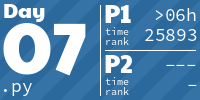
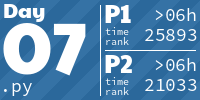
2023 - Day 7, part 2

Changed region(s): [[0.72, 0.78, 0.99, 0.93], [0.78, 0.57, 0.99, 0.72]]

diff --git a/ibidem/advent_of_code/y2023/dec07.py b/ibidem/advent_of_code/y2023/dec07.py
@@ -18,11 +18,11 @@ class HandType(IntEnum):
 
 @total_ordering
 class Hand:
-    def __init__(self, line):
+    def __init__(self, line, joker_mode):
         cards, bid = line.split()
         self.bid = int(bid.strip())
-        self.cards = [self._card_value(c) for c in cards.strip()]
-        self.type = self._hand_type(self.cards)
+        self.cards = [self._card_value(c, joker_mode) for c in cards.strip()]
+        self.type = self._hand_type(self.cards, joker_mode)
 
     def __eq__(self, other):
         return self.type == other.type and self.cards == other.cards
@@ -33,7 +33,9 @@ class Hand:
         return self.type < other.type
 
     @staticmethod
-    def _card_value(c):
+    def _card_value(c, joker_mode):
+        if joker_mode and c == "J":
+            return 1
         value_map = {
             "T": 10,
             "J": 11,
@@ -47,46 +49,76 @@ class Hand:
             return int(c)
 
     @staticmethod
-    def _hand_type(cards):
+    def _hand_type(cards, joker_mode):
         c = Counter(cards)
         current_type = HandType.HIGH_CARD
+        if joker_mode:
+            joker_count = c[1]
+            del c[1]
+        else:
+            joker_count = 0
+        if joker_count == 5:
+            return HandType.FIVE_OF_A_KIND
         for _, count in c.most_common():
             if count == 5:
                 return HandType.FIVE_OF_A_KIND
             if count == 4:
+                if joker_count == 1:
+                    return HandType.FIVE_OF_A_KIND
                 return HandType.FOUR_OF_A_KIND
             if count == 3:
+                if joker_count == 2:
+                    return HandType.FIVE_OF_A_KIND
+                if joker_count == 1:
+                    return HandType.FOUR_OF_A_KIND
                 current_type = HandType.THREE_OF_A_KIND
                 continue
             if count == 2:
+                if joker_count == 3:
+                    return HandType.FIVE_OF_A_KIND
+                if joker_count == 2:
+                    return HandType.FOUR_OF_A_KIND
+                if joker_count == 1:
+                    current_type = HandType.THREE_OF_A_KIND
+                    joker_count = 0
+                    continue
                 if current_type == HandType.THREE_OF_A_KIND:
                     return HandType.FULL_HOUSE
                 if current_type == HandType.ONE_PAIR:
                     return HandType.TWO_PAIRS
                 current_type = HandType.ONE_PAIR
                 continue
+            if count == 1:
+                if joker_count == 4:
+                    return HandType.FIVE_OF_A_KIND
+                if joker_count == 3:
+                    return HandType.FOUR_OF_A_KIND
+                if joker_count == 2:
+                    return HandType.THREE_OF_A_KIND
+                if joker_count == 1:
+                    if current_type == HandType.ONE_PAIR:
+                        return HandType.TWO_PAIRS
+                    current_type = HandType.ONE_PAIR
+                    joker_count = 0
+                    continue
         return current_type
 
 
-def load(fobj):
-    return [Hand(line) for line in fobj]
+def load(fobj, joker_mode):
+    return [Hand(line, joker_mode) for line in fobj]
 
 
-def part1(input):
+def solve(input):
     payouts = []
     for i, hand in enumerate(sorted(input)):
         payouts.append(hand.bid * (i + 1))
     return sum(payouts)
 
 
-def part2(input):
-    return None
-
-
 if __name__ == "__main__":
     with open(get_input_name(7, 2023)) as fobj:
-        p1_result = part1(load(fobj))
+        p1_result = solve(load(fobj, False))
         print(f"Part 1: {p1_result}")
     with open(get_input_name(7, 2023)) as fobj:
-        p2_result = part2(load(fobj))
+        p2_result = solve(load(fobj, True))
         print(f"Part 2: {p2_result}")

diff --git a/ibidem/advent_of_code/y2023/test/test_dec07.py b/ibidem/advent_of_code/y2023/test/test_dec07.py
@@ -1,7 +1,8 @@
 import io
+
 import pytest
 
-from ibidem.advent_of_code.y2023.dec07 import load, part1, part2, HandType
+from ibidem.advent_of_code.y2023.dec07 import load, solve, HandType, Hand
 
 TEST_INPUT = io.StringIO("""\
 32T3K 765
@@ -12,7 +13,7 @@ QQQJA 483
 """)
 
 PART1_RESULT = 6440
-PART2_RESULT = NotImplemented
+PART2_RESULT = 5905
 
 
 class TestDec07():
@@ -22,20 +23,51 @@ class TestDec07():
         return TEST_INPUT
 
     @pytest.fixture
-    def loaded(self, input):
-        return load(input)
+    def loaded1(self, input):
+        return load(input, False)
 
-    def test_load(self, loaded):
-        assert len(loaded) == 5
-        assert loaded[0].bid == 765
-        assert loaded[0].type == HandType.ONE_PAIR
-        assert loaded[0].cards == [3, 2, 10, 3, 13]
-        assert loaded[-1].type == HandType.THREE_OF_A_KIND
+    def test_load1(self, loaded1):
+        assert len(loaded1) == 5
+        assert loaded1[0].bid == 765
+        assert loaded1[0].type == HandType.ONE_PAIR
+        assert loaded1[0].cards == [3, 2, 10, 3, 13]
+        assert loaded1[-1].type == HandType.THREE_OF_A_KIND
 
-    def test_part1(self, loaded):
-        result = part1(loaded)
+    @pytest.fixture
+    def loaded2(self, input):
+        return load(input, True)
+
+    def test_load2(self, loaded2):
+        assert len(loaded2) == 5
+        assert loaded2[0].bid == 765
+        assert loaded2[0].type == HandType.ONE_PAIR
+        assert loaded2[0].cards == [3, 2, 10, 3, 13]
+        assert loaded2[1].type == HandType.FOUR_OF_A_KIND
+        assert loaded2[1].cards == [10, 5, 5, 1, 5]
+
+    def test_part1(self, loaded1):
+        result = solve(loaded1)
         assert result == PART1_RESULT
-        
-    def test_part2(self, loaded):
-        result = part2(loaded)
+
+    def test_part2(self, loaded2):
+        result = solve(loaded2)
         assert result == PART2_RESULT
+
+    @pytest.mark.parametrize("line,hand_type", [
+        ("JJJJJ 1", HandType.FIVE_OF_A_KIND),
+        ("TJJJJ 1", HandType.FIVE_OF_A_KIND),
+        ("KKJJJ 1", HandType.FIVE_OF_A_KIND),
+        ("KJKJK 1", HandType.FIVE_OF_A_KIND),
+        ("QQQQJ 1", HandType.FIVE_OF_A_KIND),
+        ("KQJJJ 1", HandType.FOUR_OF_A_KIND),
+        ("KQQJJ 1", HandType.FOUR_OF_A_KIND),
+        ("KQQQJ 1", HandType.FOUR_OF_A_KIND),
+        ("KQQQQ 1", HandType.FOUR_OF_A_KIND),
+        ("KQTJJ 1", HandType.THREE_OF_A_KIND),
+        ("KQTTJ 1", HandType.THREE_OF_A_KIND),
+        ("QQTTJ 1", HandType.FULL_HOUSE),
+        ("2345J 1", HandType.ONE_PAIR),
+    ])
+    def test_hand_type_joker(self, line, hand_type):
+        hand = Hand(line, True)
+        assert hand.type == hand_type
